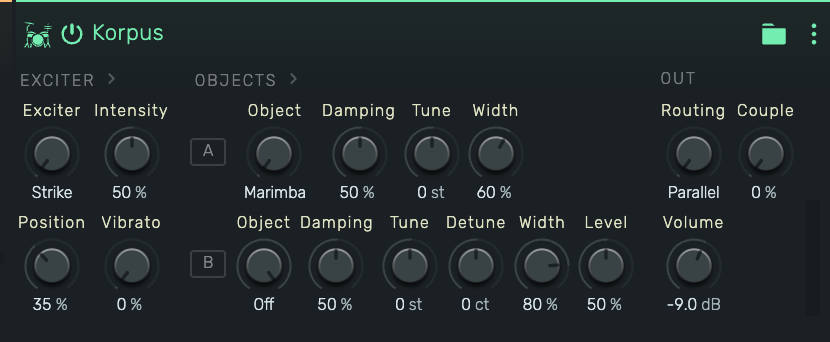
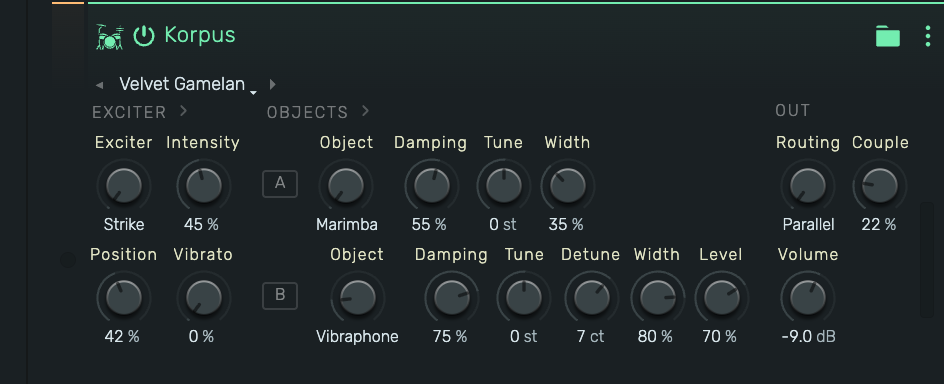
korpus: on-panel preset viewer
A preset strip above the signal zones: step arrows cycle the ten factory
presets and a dropdown lists them with the current one checked. The shown
name is derived by matching all 17 box fields against the factory list
(KorpusPresets.matches), so it reads Custom the moment any knob leaves the
preset and re-resolves on undo/redo. Manual, docs and screenshots updated.

diff --git a/packages/app/studio/src/ui/devices/instruments/KorpusDeviceEditor.tsx b/packages/app/studio/src/ui/devices/instruments/KorpusDeviceEditor.tsx
@@ -10,6 +10,7 @@ import {Html} from "@opendaw/lib-dom"
 import {StudioService} from "@/service/StudioService"
 import {Colors, IconSymbol} from "@opendaw/studio-enums"
 import {MenuItem} from "@opendaw/studio-core"
+import {MenuButton} from "@/ui/components/MenuButton"
 
 const className = Html.adoptStyleSheet(css, "KorpusDeviceEditor")
 
@@ -32,6 +33,22 @@ export const KorpusDeviceEditor = ({lifecycle, service, adapter, deviceHost}: Co
     const box = adapter.box
     const knob = (parameter: AutomatableParameterFieldAdapter, label?: string) =>
         ControlBuilder.createKnob({lifecycle, editing, midiLearning, adapter, parameter, color: Colors.black, label})
+    const presetName: HTMLElement = <span className="preset-name">Custom</span>
+    const matchIndex = () => KorpusPresets.Factory.findIndex(preset => KorpusPresets.matches(box, preset))
+    const refreshPreset = () => {
+        const index = matchIndex()
+        presetName.textContent = index >= 0 ? KorpusPresets.Factory[index].name : "Custom"
+    }
+    const loadPreset = (index: number) => editing.modify(() =>
+        KorpusPresets.apply(box, KorpusPresets.Factory[index]))
+    const stepPreset = (direction: number) => {
+        const count = KorpusPresets.Factory.length
+        const index = matchIndex()
+        loadPreset(index === -1 ? (direction > 0 ? 0 : count - 1) : (index + direction + count) % count)
+    }
+    const parameters = [exciter, intensity, position, vibrato, objectA, dampingA, tuneA, widthA,
+        objectB, dampingB, tuneB, detuneB, widthB, levelB, routing, couple, volume]
+    parameters.forEach(parameter => lifecycle.own(parameter.catchupAndSubscribe(refreshPreset)))
     const objectBKnobs: HTMLElement = (
         <div className="knobs">
             {knob(objectB, "Object")}
@@ -58,6 +75,19 @@ export const KorpusDeviceEditor = ({lifecycle, service, adapter, deviceHost}: Co
                       }}
                       populateControls={() => (
                           <div className={className}>
+                              <div className="presets">
+                                  <span className="step" onclick={() => stepPreset(-1)}>&#9666;</span>
+                                  <MenuButton root={MenuItem.root()
+                                      .setRuntimeChildrenProcedure(parent => parent.addMenuItem(
+                                          ...KorpusPresets.Factory.map((preset, index) =>
+                                              MenuItem.default({label: preset.name,
+                                                  checked: index === matchIndex()})
+                                                  .setTriggerProcedure(() => loadPreset(index)))))}
+                                              appearance={{tinyTriangle: true}}
+                                              pointer>{presetName}</MenuButton>
+                                  <span className="step" onclick={() => stepPreset(1)}>&#9656;</span>
+                              </div>
+                              <div className="signal">
                               <section className="zone">
                                   <h5>Exciter</h5>
                                   <div className="quad">
@@ -93,6 +123,7 @@ export const KorpusDeviceEditor = ({lifecycle, service, adapter, deviceHost}: Co
                                       {knob(volume)}
                                   </div>
                               </section>
+                              </div>
                           </div>
                       )}
                       populateMeter={() => (

diff --git a/packages/app/studio/src/ui/devices/instruments/KorpusDeviceEditor.sass b/packages/app/studio/src/ui/devices/instruments/KorpusDeviceEditor.sass
@@ -2,42 +2,69 @@
 
 component
   display: flex
+  flex-direction: column
+  row-gap: 3px
   align-items: start
-  column-gap: 10px
   @include mixins.Control
   padding: 2px 0 0.25em 0
 
-  > .zone
+  > .presets
     display: flex
-    flex-direction: column
-    row-gap: 3px
+    align-items: center
+    column-gap: 2px
+    font-size: 9px
+    color: hsla(0, 0%, 100%, 0.55)
 
-    // Signal flow reads at header level: EXCITER >  OBJECTS >  OUT
-    &:not(.last) > h5::after
-      content: "\203A"
-      margin-left: 6px
-      font-size: 11px
-      line-height: 10px
-      color: hsla(0, 0%, 100%, 0.25)
+    > .step
+      cursor: pointer
+      padding: 0 3px
+      line-height: 12px
+      border-radius: 2px
+      color: hsla(0, 0%, 100%, 0.35)
+      &:hover
+        color: hsla(0, 0%, 100%, 0.8)
+        background: hsla(0, 0%, 100%, 0.08)
 
-    > h5
-      font-size: 8px
-      line-height: 10px
-      letter-spacing: 0.12em
-      text-transform: uppercase
-      margin: 0
-      padding: 0 0 0 2px
-      color: hsla(0, 0%, 100%, 0.4)
+    .preset-name
+      min-width: 7.5em
+      text-align: center
 
-    > .quad
-      display: grid
-      grid-template-columns: repeat(2, max-content)
-      gap: 0.25em 2px
+  > .signal
+    display: flex
+    align-items: start
+    column-gap: 10px
 
-    > .rows
+    > .zone
       display: flex
       flex-direction: column
-      row-gap: 0.25em
+      row-gap: 3px
+
+      // Signal flow reads at header level: EXCITER >  OBJECTS >  OUT
+      &:not(.last) > h5::after
+        content: "\203A"
+        margin-left: 6px
+        font-size: 11px
+        line-height: 10px
+        color: hsla(0, 0%, 100%, 0.25)
+
+      > h5
+        font-size: 8px
+        line-height: 10px
+        letter-spacing: 0.12em
+        text-transform: uppercase
+        margin: 0
+        padding: 0 0 0 2px
+        color: hsla(0, 0%, 100%, 0.4)
+
+      > .quad
+        display: grid
+        grid-template-columns: repeat(2, max-content)
+        gap: 0.25em 2px
+
+      > .rows
+        display: flex
+        flex-direction: column
+        row-gap: 0.25em
 
   .row
     display: grid

diff --git a/packages/studio/adapters/src/devices/instruments/KorpusPresets.ts b/packages/studio/adapters/src/devices/instruments/KorpusPresets.ts
@@ -85,6 +85,25 @@ export namespace KorpusPresets {
             routing: 0, couple: 0.12, volume: -9.0
         }
     ]
+    const near = (a: number, b: number): boolean => Math.abs(a - b) < 1.0e-3
+    export const matches = (box: KorpusDeviceBox, preset: Preset): boolean =>
+        box.exciter.getValue() === preset.exciter
+        && near(box.intensity.getValue(), preset.intensity)
+        && near(box.position.getValue(), preset.position)
+        && near(box.vibrato.getValue(), preset.vibrato)
+        && box.objectA.getValue() === preset.objectA
+        && near(box.dampingA.getValue(), preset.dampingA)
+        && box.tuneA.getValue() === preset.tuneA
+        && near(box.widthA.getValue(), preset.widthA)
+        && box.objectB.getValue() === preset.objectB
+        && near(box.dampingB.getValue(), preset.dampingB)
+        && box.tuneB.getValue() === preset.tuneB
+        && near(box.detuneB.getValue(), preset.detuneB)
+        && near(box.widthB.getValue(), preset.widthB)
+        && near(box.levelB.getValue(), preset.levelB)
+        && box.routing.getValue() === preset.routing
+        && near(box.couple.getValue(), preset.couple)
+        && near(box.volume.getValue(), preset.volume)
     export const apply = (box: KorpusDeviceBox, preset: Preset): void => {
         box.exciter.setValue(preset.exciter)
         box.intensity.setValue(preset.intensity)

diff --git a/packages/app/studio/public/manuals/devices/instruments/korpus.md b/packages/app/studio/public/manuals/devices/instruments/korpus.md
@@ -123,10 +123,12 @@ Output level in dB.
 
 ## 4. Factory Presets
 
-The device menu (⋮ in the device header) carries a **Presets** submenu with ten factory patches
-covering every exciter and routing: _Velvet Gamelan_, _Log & Skin_, _Foundry Kit_, _Twin Nylon_,
-_Rosin & Ivory_, _Glass Chapel_, _Ocarina Moon_, _Cathedral of Wires_, _Seance Drum_ and _Vesper
-Choir_. Loading a preset is a single undoable edit.
+The preset strip at the top of the panel browses ten factory patches covering every exciter and
+routing: step with the ◂ ▸ arrows, or click the name to pick from the full list (the current patch
+is checked). The same list lives in the device menu (⋮ in the device header) under **Presets**:
+_Velvet Gamelan_, _Log & Skin_, _Foundry Kit_, _Twin Nylon_, _Rosin & Ivory_, _Glass Chapel_,
+_Ocarina Moon_, _Cathedral of Wires_, _Seance Drum_ and _Vesper Choir_. Loading a preset is a
+single undoable edit, and the strip reads _Custom_ as soon as any knob leaves the preset.
 
 ---
 

diff --git a/docs/korpus.md b/docs/korpus.md
@@ -156,9 +156,11 @@ Standard device recipe (see `manuals/creating-a-device.md`): schema in
 `voicing` pool) → editor (`KorpusDeviceEditor.tsx`, signal-flow layout
 EXCITER › OBJECTS › OUT with a state-aware Object-B row) → factory
 registrations. Factory presets are in-code
-(`adapters/.../KorpusPresets.ts`, applied via the device menu inside one
-`editing.modify` transaction), since the stock preset catalog is hosted
-outside the repository.
+(`adapters/.../KorpusPresets.ts`), since the stock preset catalog is hosted
+outside the repository; they load from an on-panel preset strip (step
+arrows + dropdown, current patch matched field-by-field via
+`KorpusPresets.matches`) and from the device menu, each load one
+`editing.modify` transaction.
 
 Engine-side cautions that are easy to trip:
 
